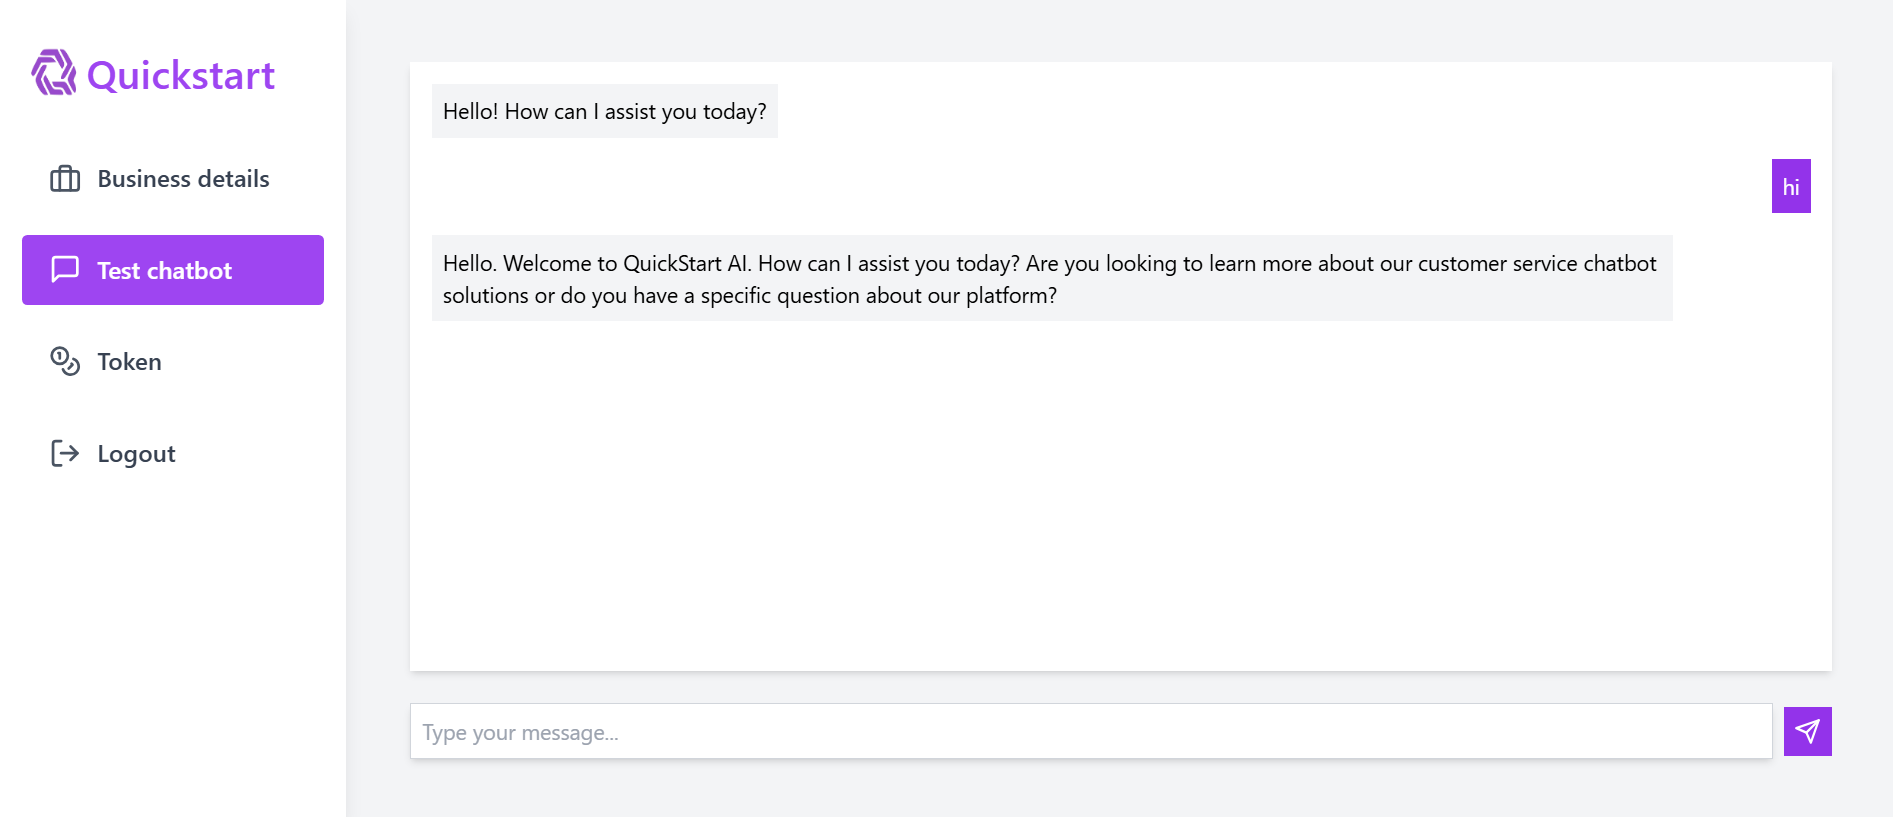
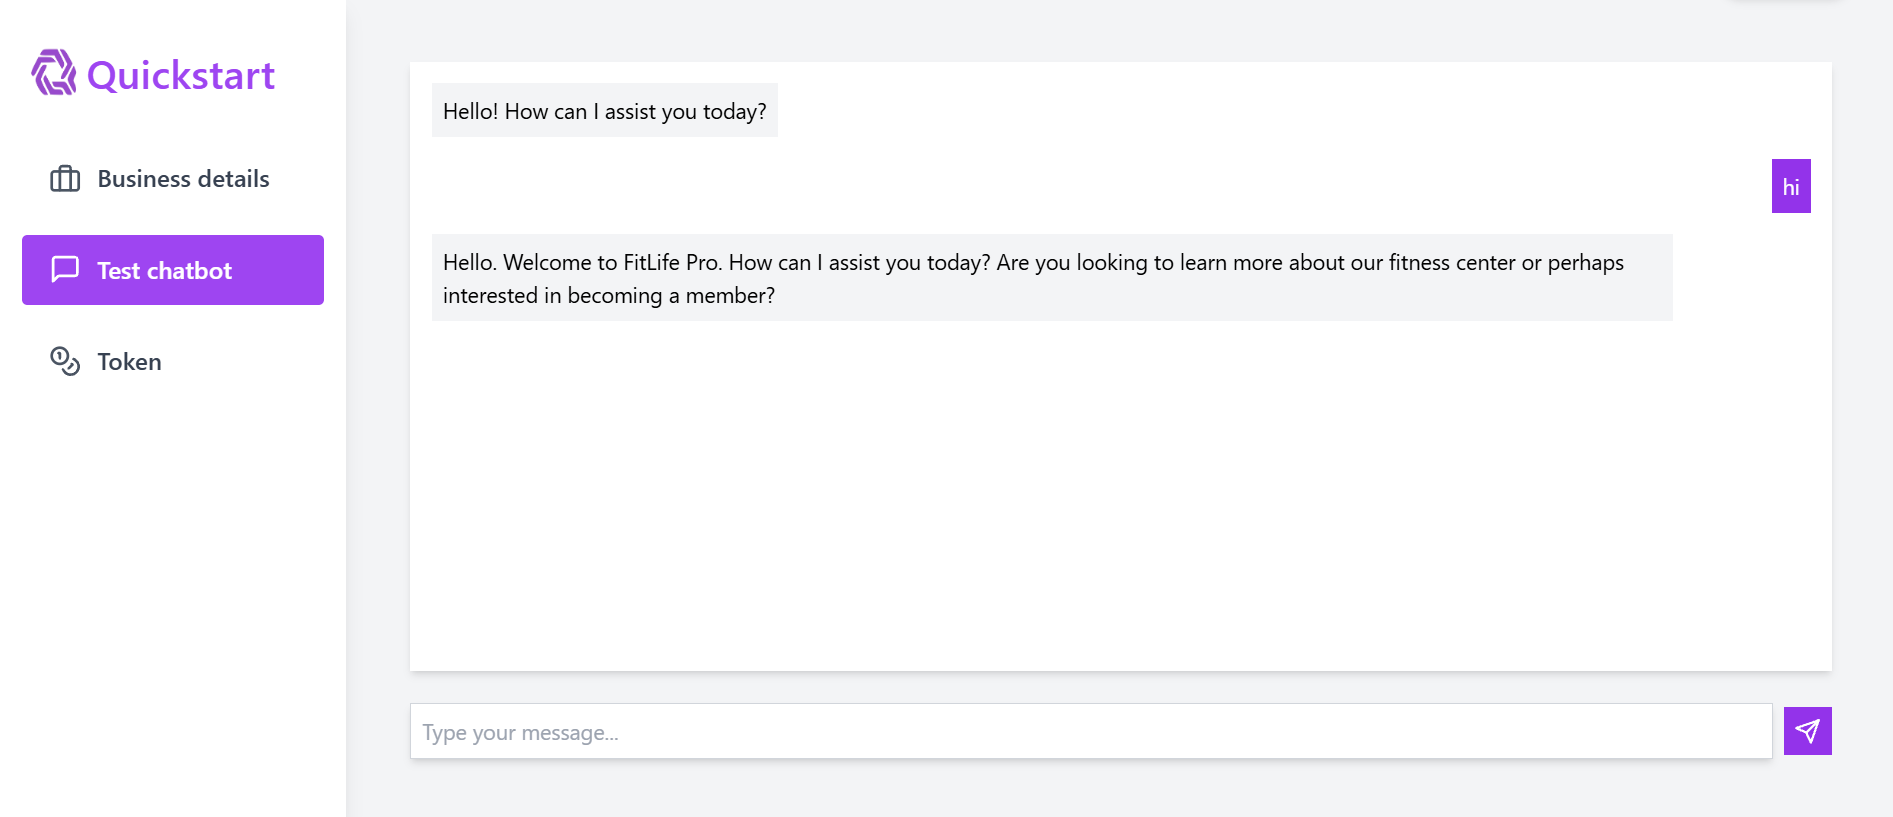
Fix input placeholders in business details dashboard to disappear on focus

Changed region(s): [[0.2182, 0.306, 0.8727, 0.3672], [0.0312, 0.5508, 0.0935, 0.5814]]

diff --git a/Frontend/components/userPageComponents/BussinessDetails.jsx b/Frontend/components/userPageComponents/BussinessDetails.jsx
@@ -260,6 +260,10 @@ Please return an array of exactly 5 questions in JSON format. Each question shou
                   onChange={handleChange}
                   required
                   placeholder="What is our Company Objective? 🚀"
+                  onFocus={(e) => (e.target.placeholder = "")}
+                  onBlur={(e) =>
+                    (e.target.placeholder = "What is our Company Objective? 🚀")
+                  }
                   className="mt-2 block w-full border border-gray-200 bg-white text-gray-900 placeholder-gray-400 focus:ring focus:ring-blue-500"
                 />
                 <FaRobot className="absolute right-3 top-3 text-xl text-[#9e45f1]" />
@@ -277,6 +281,11 @@ Please return an array of exactly 5 questions in JSON format. Each question shou
                   onChange={handleChange}
                   required
                   placeholder="Our objective is to provide the best services to our customers... 💼"
+                  onFocus={(e) => (e.target.placeholder = "")}
+                  onBlur={(e) =>
+                    (e.target.placeholder =
+                      "Our objective is to provide the best services to our customers... 💼")
+                  }
                   rows={4}
                   className="mt-2 block w-full border border-gray-200 bg-white text-gray-900 placeholder-gray-400  "
                 />